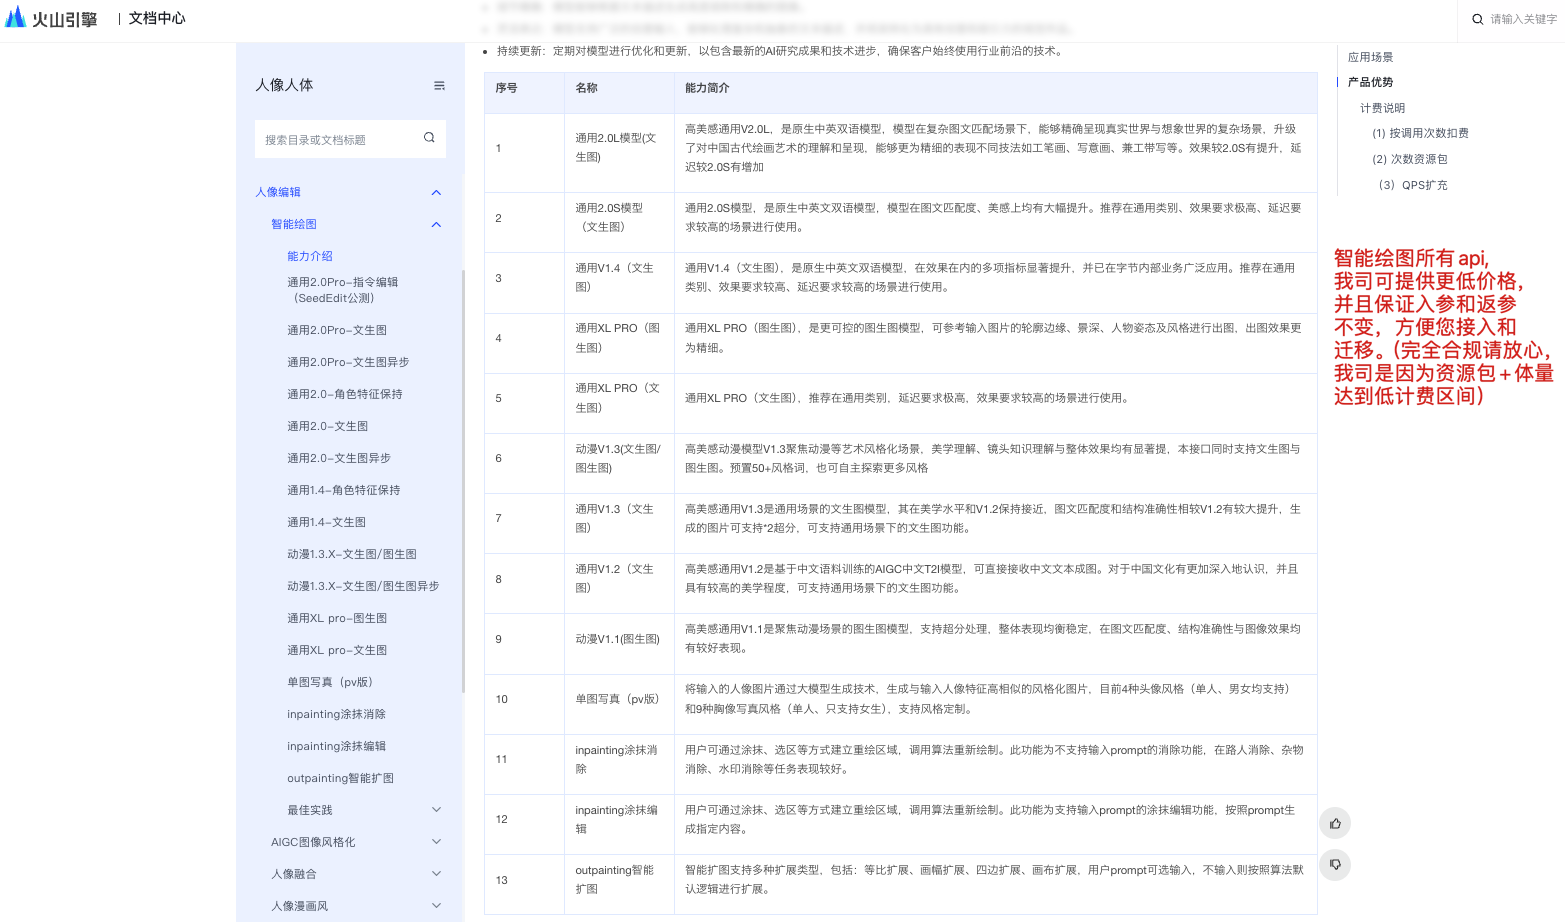
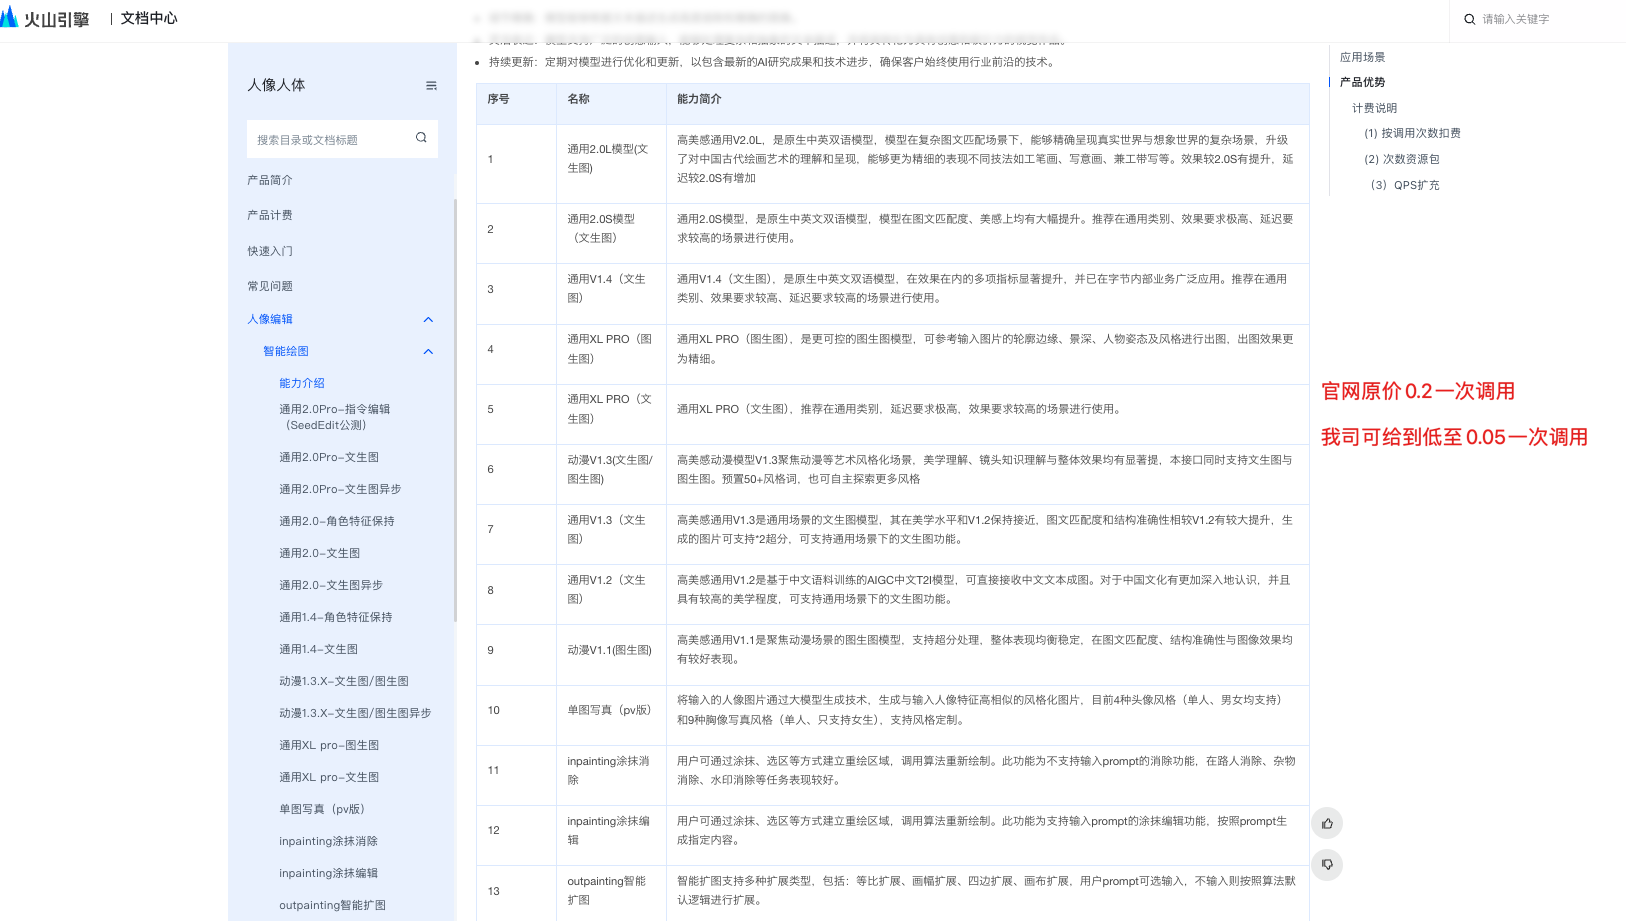
修改价格

diff --git a/src/components/HelloWorld.vue b/src/components/HelloWorld.vue
@@ -1,9 +1,8 @@
 <template>
   <div class="hello">
     <h1>提供丰富的图像处理api，基于【火山引擎-人像人体-人像编辑-智能绘图】的所有api（见：https://www.volcengine.com/docs/6791/1279296）</h1>
-    <h1>本公司由于资源包+本身调用量已经达到更高阶梯单价，故可以提供更低价的API，降低您的成本。</h1>
-    <h1>并承诺完全基于原火山Api调用，保持所有入参/返参不变，您可无缝迁移。</h1>
-    <h1 style="background-color: aquamarine;">咨询联系wx:  z544164616</h1>
+    <h1>本公司由于资源包 + 抵扣券 + 深度火山合作，故可以提供更低价的API，降低您的成本。并承诺完全基于原火山Api调用，保持所有入参/返参不变，您可无缝迁移</h1>
+    <h1 style="background-color: aquamarine;">官网价格0.2元每次调用，我司可给到低至：0.05元每次调用，咨询联系wx:  z544164616</h1>
     <el-divider></el-divider>
     <div style="box-shadow: var(--el-box-shadow-dark)">
       <el-image src="apidesc.jpg"></el-image>
